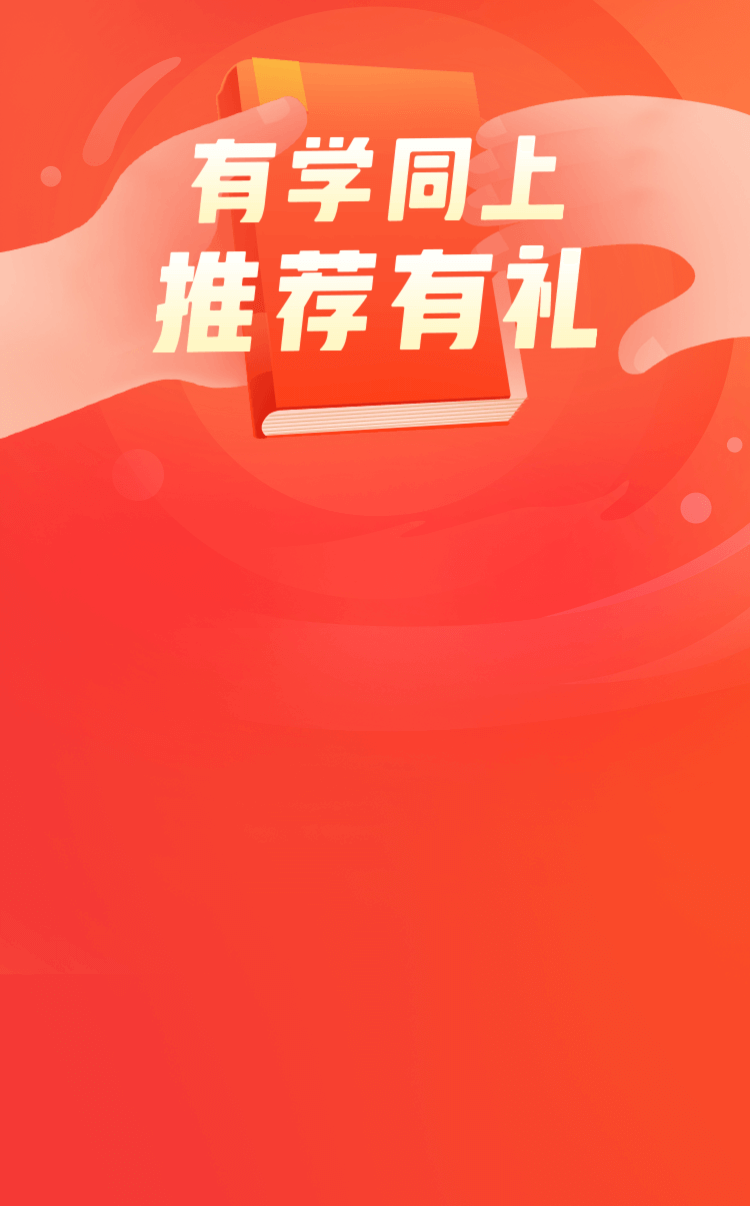
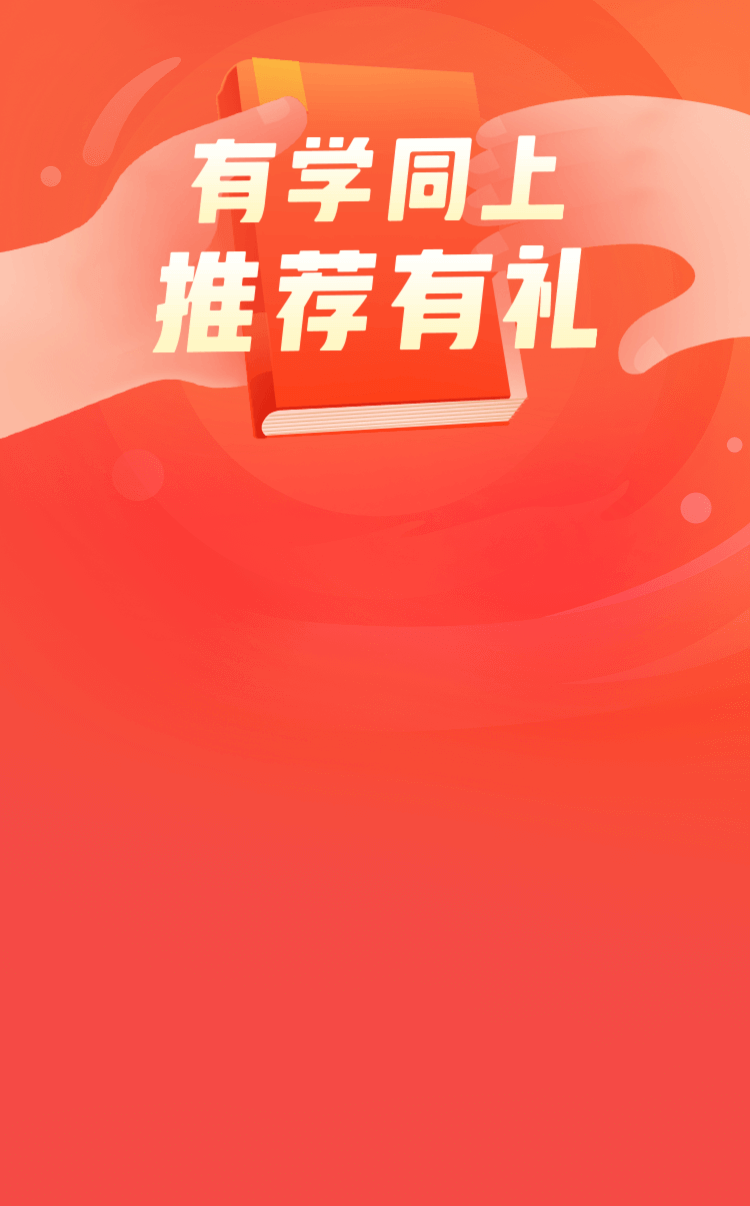
领书页面背景图更换

Changed region(s): [[0.4293, 0.7056, 1.0, 1.0]]

diff --git a/src/views/InviteTask.vue b/src/views/InviteTask.vue
@@ -3,7 +3,7 @@
  * @Author: zxk
  * @Date: 2020-06-04 09:27:49
  * @LastEditors: zxk
- * @LastEditTime: 2020-06-12 19:34:14
+ * @LastEditTime: 2020-06-13 09:54:11
 --> 
 <template>
   <div :class=" ['invite-page', {'invite-touch':showContent=='rule'}]">
@@ -197,10 +197,10 @@ export default {
   // height: 100%;
   height: 100vh;
   overflow: hidden;
-  background: #f7f7f7;
-  background: url('~@/assets/images/lesson/active.png') no-repeat;
+  background:#F44B46 url('~@/assets/images/lesson/active.png') no-repeat;
   background-attachment:fixed;
-  background-size: 100% 100%;
+  background-size: cover;
+  background-size: contain;
   .go-home {
     position: fixed;
     top: 0.9375rem /* 15/16 */;
@@ -211,7 +211,7 @@ export default {
   }
   .space-box {
     width: 100%;
-    height: 41.29%;
+    height: 15.625rem /* 250/16 */;
   }
   .invite-header {
     margin: 0 3.4375rem 1.5625rem 3.4375rem;
@@ -460,5 +460,10 @@ export default {
   right: 0;
   bottom: 0;
   overflow: hidden;
+}
+@media screen and (max-width: 359px){ //窄屏手机，底部字体变小
+  .invite-page .footer{
+    font-size: .875rem /* 14/16 */;
+  }
 }
 </style>
